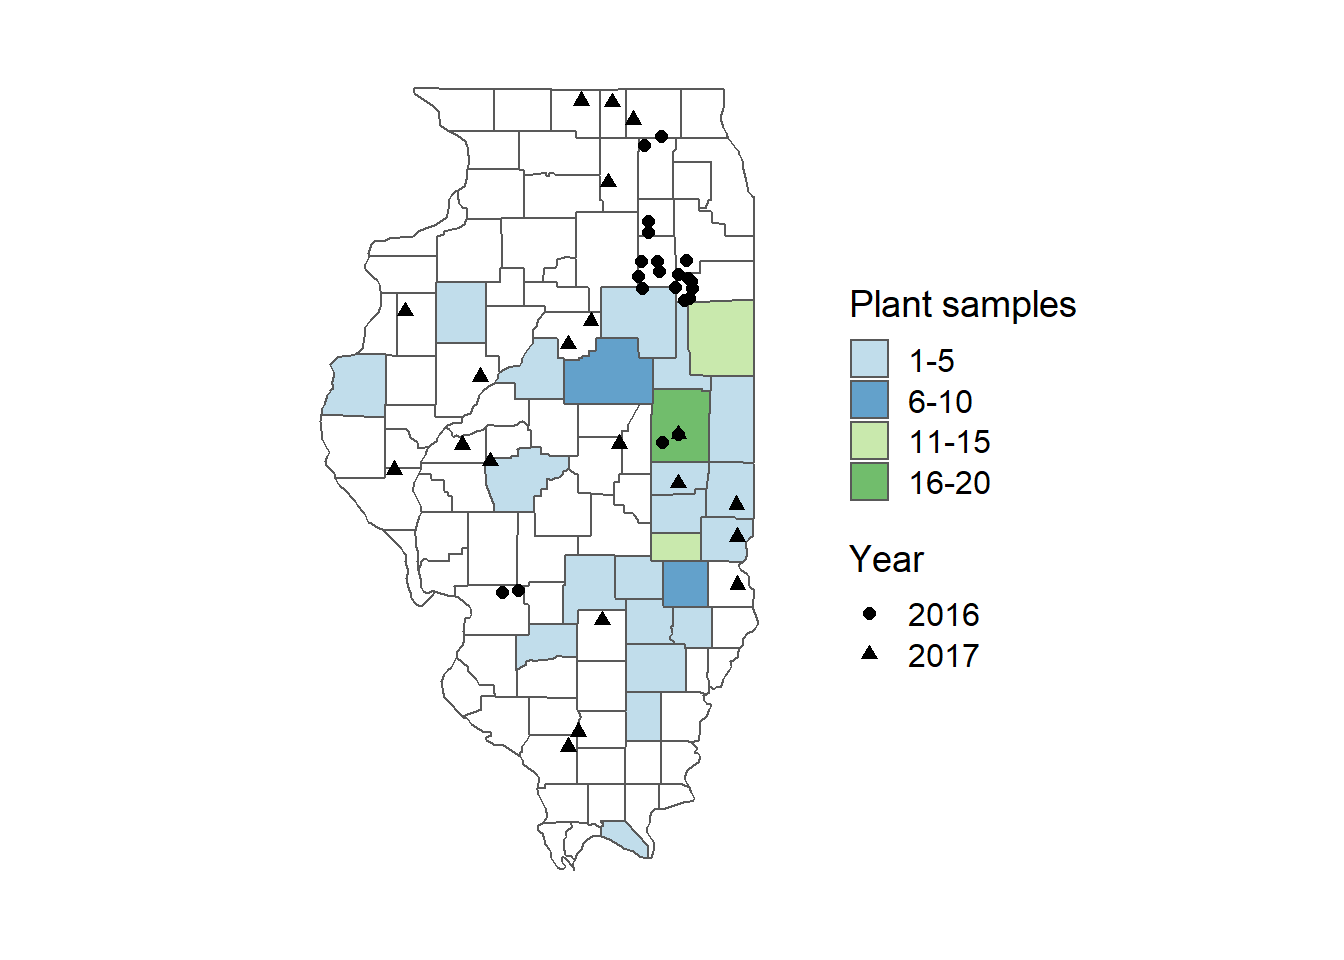
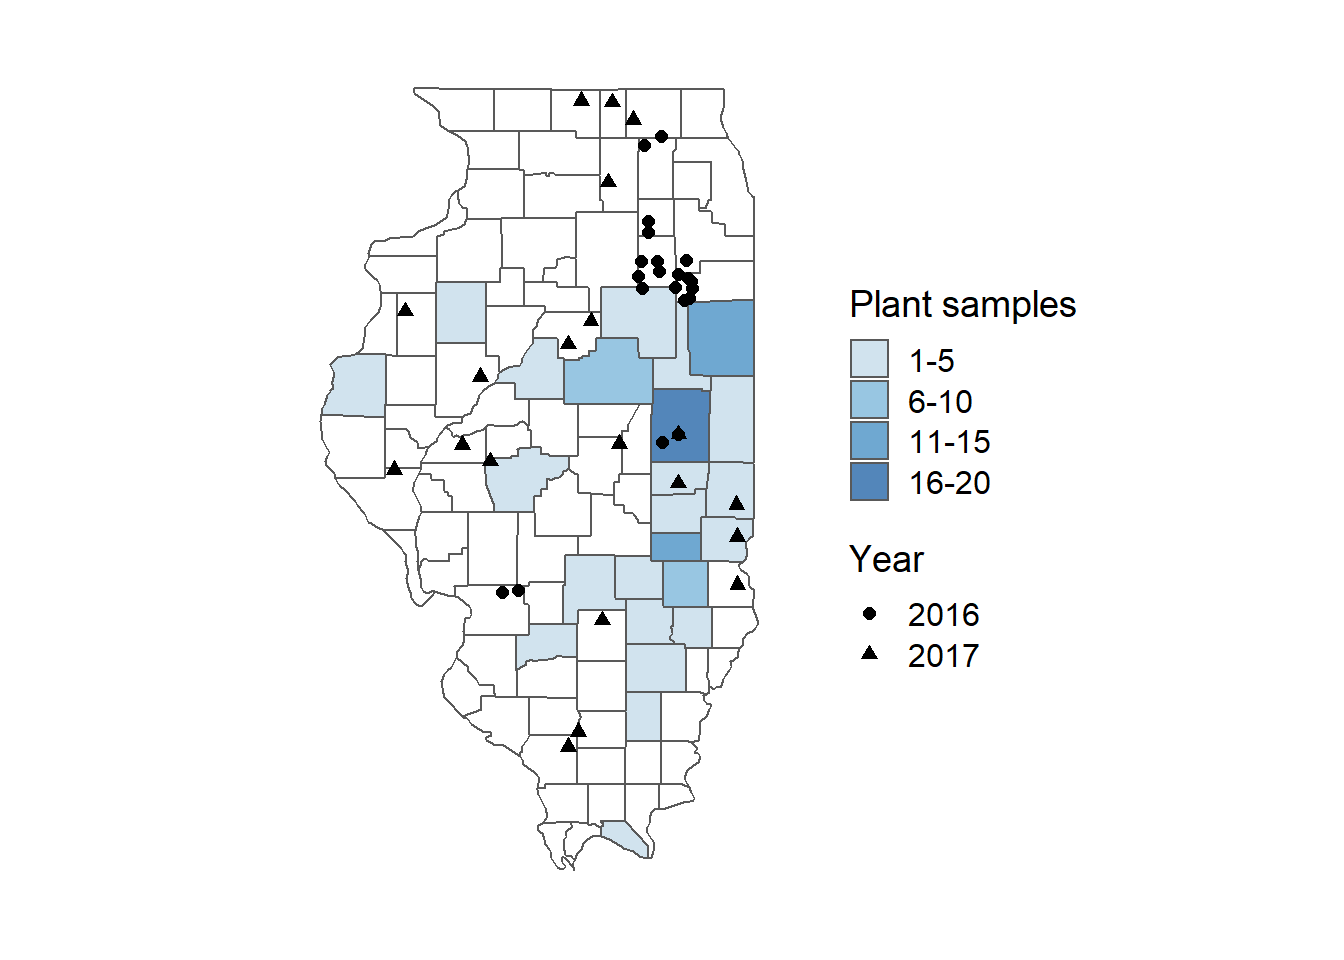
Build site.

Changed region(s): [[0.4062, 0.3125, 0.5625, 0.5], [0.625, 0.375, 0.6875, 0.5312], [0.4688, 0.5312, 0.5312, 0.6562]]

diff --git a/docs/02_analysis_phytophtora-spp-survey.html b/docs/02_analysis_phytophtora-spp-survey.html
@@ -407,7 +407,7 @@ div.tocify {
 <div class="tab-content">
 <div id="summary" class="tab-pane fade in active">
 <p>
-<strong>Last updated:</strong> 2020-07-03
+<strong>Last updated:</strong> 2020-07-08
 </p>
 <p>
 <strong>Checks:</strong> <span class="glyphicon glyphicon-ok text-success" aria-hidden="true"></span> 7 <span class="glyphicon glyphicon-exclamation-sign text-danger" aria-hidden="true"></span> 0
@@ -498,16 +498,16 @@ This reproducible <a href="http://rmarkdown.rstudio.com">R Markdown</a> analysis
 <div class="panel panel-default">
 <div class="panel-heading">
 <p class="panel-title">
-<a data-toggle="collapse" data-parent="#workflowr-checks" href="#strongRepositoryversionstrongahrefhttpsgithubcomdanielcerritosphytophthoratree7548bc087ac4c0514dfe4562b2ffc4a6a121a523targetblank7548bc0a"> <span class="glyphicon glyphicon-ok text-success" aria-hidden="true"></span> <strong>Repository version:</strong> <a href="https://github.com/danielcerritos/phytophthora/tree/7548bc087ac4c0514dfe4562b2ffc4a6a121a523" target="_blank">7548bc0</a> </a>
+<a data-toggle="collapse" data-parent="#workflowr-checks" href="#strongRepositoryversionstrongahrefhttpsgithubcomdanielcerritosphytophthoratree0de451379c62b3feec5dd8f47bd89f59125f0462targetblank0de4513a"> <span class="glyphicon glyphicon-ok text-success" aria-hidden="true"></span> <strong>Repository version:</strong> <a href="https://github.com/danielcerritos/phytophthora/tree/0de451379c62b3feec5dd8f47bd89f59125f0462" target="_blank">0de4513</a> </a>
 </p>
 </div>
[2 lines of base64/hex data omitted]
 <div class="panel-body">
 <p>
 Great! You are using Git for version control. Tracking code development and connecting the code version to the results is critical for reproducibility.
 </p>
 <p>
-The results in this page were generated with repository version <a href="https://github.com/danielcerritos/phytophthora/tree/7548bc087ac4c0514dfe4562b2ffc4a6a121a523" target="_blank">7548bc0</a>. See the <em>Past versions</em> tab to see a history of the changes made to the R Markdown and HTML files.
+The results in this page were generated with repository version <a href="https://github.com/danielcerritos/phytophthora/tree/0de451379c62b3feec5dd8f47bd89f59125f0462" target="_blank">0de4513</a>. See the <em>Past versions</em> tab to see a history of the changes made to the R Markdown and HTML files.
 </p>
 <p>
 Note that you need to be careful to ensure that all relevant files for the analysis have been committed to Git prior to generating the results (you can use <code>wflow_publish</code> or <code>wflow_git_commit</code>). workflowr only checks the R Markdown file, but you know if there are other scripts or data files that it depends on. Below is the status of the Git repository when the results were generated:
@@ -554,6 +554,108 @@ Message
 </tr>
 </thead>
 <tbody>
+<tr>
+<td>
+Rmd
+</td>
+<td>
+<a href="https://github.com/danielcerritos/phytophthora/blob/0de451379c62b3feec5dd8f47bd89f59125f0462/analysis/02_analysis_phytophtora-spp-survey.Rmd" target="_blank">0de4513</a>
+</td>
+<td>
+Daniel Guillermo Cerritos
+</td>
+<td>
+2020-07-08
+</td>
+<td>
+figures size
+</td>
+</tr>
+<tr>
+<td>
+Rmd
+</td>
+<td>
+<a href="https://github.com/danielcerritos/phytophthora/blob/9f07136cfd94e17d6d2f621b16be7c962c5ed48d/analysis/02_analysis_phytophtora-spp-survey.Rmd" target="_blank">9f07136</a>
+</td>
+<td>
+Daniel Guillermo Cerritos
+</td>
+<td>
+2020-07-07
+</td>
+<td>
+exploratory temperature data
+</td>
+</tr>
+<tr>
+<td>
+Rmd
+</td>
+<td>
+<a href="https://github.com/danielcerritos/phytophthora/blob/d2b78bb22d4dea23a4ca836e88a78605ee0b7820/analysis/02_analysis_phytophtora-spp-survey.Rmd" target="_blank">d2b78bb</a>
+</td>
+<td>
+Daniel Guillermo Cerritos
+</td>
+<td>
+2020-07-07
+</td>
+<td>
+add temperature data
+</td>
+</tr>
+<tr>
+<td>
+Rmd
+</td>
+<td>
+<a href="https://github.com/danielcerritos/phytophthora/blob/7f247ab84910a78e67c4e99bfaccf56e0e67955b/analysis/02_analysis_phytophtora-spp-survey.Rmd" target="_blank">7f247ab</a>
+</td>
+<td>
+Daniel Guillermo Cerritos
+</td>
+<td>
+2020-07-07
+</td>
+<td>
+clean agg temperature data and make graph for analysis .Rmd file
+</td>
+</tr>
+<tr>
+<td>
+Rmd
+</td>
+<td>
+<a href="https://github.com/danielcerritos/phytophthora/blob/583483062a327e2f3d9d4b5a2ac3a0de103289c4/analysis/02_analysis_phytophtora-spp-survey.Rmd" target="_blank">5834830</a>
+</td>
+<td>
+Daniel Guillermo Cerritos
+</td>
+<td>
+2020-07-04
+</td>
+<td>
+change fig 1 colors
+</td>
+</tr>
+<tr>
+<td>
+html
+</td>
+<td>
+<a href="https://rawcdn.githack.com/danielcerritos/phytophthora/c06b05d9b2d3665fd5c74d804585f65dc829c1ac/docs/02_analysis_phytophtora-spp-survey.html" target="_blank">c06b05d</a>
+</td>
+<td>
+Daniel Guillermo Cerritos
+</td>
+<td>
+2020-07-03
+</td>
+<td>
+Build site.
+</td>
+</tr>
 <tr>
 <td>
 Rmd
@@ -1591,18 +1693,19 @@ pacman::p_load(tidyverse, here, sf, maps, rnaturalearth, rnaturalearthdata,
 <h1>Import data</h1>
 <pre class="r"><code>all_data &lt;- list.files(here(&quot;output&quot;, &quot;clean_data&quot;), full.names = TRUE)
 # samples collection
-soil_samples &lt;- read_csv(all_data[8])
-plant_samples &lt;- read_csv(all_data[7])
+soil_samples &lt;- read_csv(all_data[9])
+plant_samples &lt;- read_csv(all_data[8])
 # identification of isolates
 isolates_recovered &lt;- read_csv(here(&quot;data&quot;, &quot;all-isolates-in-data-base.csv&quot;))
 # pathotype
-sojae &lt;- read_csv(all_data[6])
-sansomeana &lt;- read_csv(all_data[5])
+sojae &lt;- read_csv(all_data[7])
+sansomeana &lt;- read_csv(all_data[6])
 #aggressiveness
 dry_weigth &lt;- read_csv(all_data[1])
 area_length &lt;- read_csv(all_data[2])
+agg_temperature &lt;- read_csv(all_data[3]) 
 # fungicide sensitivity 
-fungicide &lt;- read.csv(all_data[4])</code></pre>
+fungicide &lt;- read.csv(all_data[5])</code></pre>
 </div>
 <div id="sample-collection" class="section level1">
 <h1>Sample collection</h1>
@@ -1680,12 +1783,11 @@ ggplot() +
   geom_sf(data = map_plant, aes(fill = samples_categ) , alpha = 0.7) +
   geom_sf(data = map_soil, aes(shape = year),  size = 2) +
   coord_sf(xlim = c(-92, -87), ylim = c(36.5, 43), expand = FALSE) +
-  scale_fill_manual(values = c(&quot;#a6cee3&quot;, &quot;#1f78b4&quot;, &quot;#b2df8a&quot;, &quot;#33a02c&quot;), 
+  scale_fill_manual(values = c(&quot;#bdd7e7&quot;, &quot;#6baed6&quot;, &quot;#3182bd&quot;, &quot;#08519c&quot;), 
                     name = &quot;Plant samples&quot;) +
   scale_shape_discrete(name = &quot;Year&quot;) +
   theme_map()</code></pre>
 <p><img src="figure/02_analysis_phytophtora-spp-survey.Rmd/sample%20map-1.png" width="672" style="display: block; margin: auto;" /></p>
-<pre class="r"><code>#   scale_fill_manual(values = c(&quot;#a6cee3&quot;, &quot;#1f78b4&quot;, &quot;#b2df8a&quot;, &quot;#33a02c&quot;), </code></pre>
 </div>
 </div>
 <div id="identification-of-isolates" class="section level1">
@@ -1855,9 +1957,9 @@ sojae_control &lt;- sojae %&gt;%
   filter(differential == &quot;Williams&quot;) %&gt;% 
   group_by(isolate_number, isolate_id, isolate_name, county, differential, gene) %&gt;% 
   summarise(dead = sum(dead), 
-            total = sum(total))
-
-sojae &lt;- sojae %&gt;% 
+            total = sum(total))</code></pre>
+<pre><code>`summarise()` regrouping output by &#39;isolate_number&#39;, &#39;isolate_id&#39;, &#39;isolate_name&#39;, &#39;county&#39;, &#39;differential&#39; (override with `.groups` argument)</code></pre>
+<pre class="r"><code>sojae &lt;- sojae %&gt;% 
   filter(!differential == &quot;Williams&quot;)
 
 sojae &lt;- bind_rows(sojae_control, sojae)
@@ -2042,7 +2144,7 @@ sansomeana_rps %&gt;%
        y = &quot;Percent pathogenic&quot;) +
   scale_y_continuous(
     expand = expansion(mult = c(0, 0.05))) </code></pre>
-<p><img src="figure/02_analysis_phytophtora-spp-survey.Rmd/sansomena%20effective%20genes-1.png" width="672" style="display: block; margin: auto;" /></p>
+<p><img src="figure/02_analysis_phytophtora-spp-survey.Rmd/sansomena%20effective%20genes-1.png" width="432" style="display: block; margin: auto;" /></p>
 <pre class="r"><code># combine pathtoyping results
 isolates_complexity &lt;- complexities$indvidual_complexities %&gt;% 
   rename(isolate_number = sample, complexity = N_samp)
@@ -2067,9 +2169,9 @@ sojae_pathotype &lt;- left_join(sojae_all, add_isolate_id, by = &quot;isolate_nu
 area_length &lt;- area_length %&gt;% 
   group_by(experiment, pot) %&gt;% 
   summarise(length_in = mean(length_in), 
-            area_in.2 = mean(area_in.2))
-
-aggressiveness &lt;- left_join(dry_weigth, area_length, 
+            area_in.2 = mean(area_in.2))</code></pre>
+<pre><code>`summarise()` regrouping output by &#39;experiment&#39; (override with `.groups` argument)</code></pre>
+<pre class="r"><code>aggressiveness &lt;- left_join(dry_weigth, area_length, 
                             by = c(&quot;experiment&quot;, &quot;pot&quot;)) 
 
 # results  are by pot, divide by germination to get mean by seedling
@@ -2082,6 +2184,30 @@ aggressiveness &lt;- aggressiveness %&gt;%
 # write_csv(aggressiveness, here(&quot;output&quot;, &quot;transform_data&quot;, &quot;02_aggressiveness_transform.csv&quot;))</code></pre>
 <div id="exploratory-plots" class="section level2">
 <h2>Exploratory plots</h2>
+<pre class="r"><code>agg_temperature %&gt;% 
+  group_by(experiment) %&gt;% 
+  summarise(min = min(room_temperature), 
+            max = max(room_temperature), 
+            mean = mean(room_temperature))</code></pre>
+<pre><code># A tibble: 3 x 4
+  experiment   min   max  mean
+       &lt;dbl&gt; &lt;dbl&gt; &lt;dbl&gt; &lt;dbl&gt;
+1          1  71.4  83.5  77.6
+2          2  73.1  85.3  76.6
+3          3  69.6  76.2  72.8</code></pre>
+<pre class="r"><code>agg_temperature$time &lt;- as.character(agg_temperature$time)
+# filter to the hours they have in common 
+agg_temperature_filtered &lt;- agg_temperature %&gt;% 
+  filter(time %in% c(&quot;00:15:00&quot;, &quot;08:15:00&quot;, &quot;16:15:00&quot;))
+
+agg_temperature_filtered %&gt;% 
+  ggplot(aes(x = date, y = room_temperature, color = as.factor(experiment))) +
+  geom_line(group = 1)  +
+  facet_grid(~ as.factor(experiment), scales = &quot;free_x&quot;) +
+  theme_minimal() +
+  theme(axis.text.x = element_text(angle = 45, hjust = 1), 
+        legend.position = &quot;none&quot;) </code></pre>
+<p><img src="figure/02_analysis_phytophtora-spp-survey.Rmd/temperature%20agg-1.png" width="672" style="display: block; margin: auto;" /></p>
 <pre class="r"><code>aggressiveness$experiment &lt;- as.factor(aggressiveness$experiment)
 aggressiveness$isolate &lt;- as.factor(aggressiveness$isolate)
 aggressiveness$species &lt;- as.factor(aggressiveness$species)
@@ -2549,9 +2675,7 @@ Intervals are back-transformed from the log scale
 P value adjustment: tukey method for comparing a family of 33 estimates 
 Tests are performed on the log scale 
 significance level used: alpha = 0.05 </code></pre>
-</div>
-<div id="figure-4" class="section level2">
-<h2>Figure 4</h2>
+<p>## Figure 4</p>
 <pre class="r"><code># combine the two controls for plotting
 aggressiveness_plots &lt;- aggressiveness
 
@@ -2687,7 +2811,6 @@ dry_root    0.0939              0.0001    0.0000    0.0000
 dry_shoot   0.0362     0.0001             0.0000    0.0000     
 root_area   0.0316     0.0000   0.0000              0.0000     
 root_length 0.0475     0.0000   0.0000    0.0000               </code></pre>
-<p>Make some plots for the temperature data</p>
 </div>
 </div>
 <div id="fungicide-sensitivity" class="section level1">
@@ -2712,9 +2835,9 @@ control_fungicide &lt;- clean_fungicide %&gt;%
   filter(dose == 0, 
          !is.na(length.mm)) %&gt;% 
   group_by(fungicide, experiment, isolate) %&gt;% 
-  summarise(control.mean = mean(length.mm)) 
-
-clean_fungicide &lt;- left_join(clean_fungicide, control_fungicide, by = c(&quot;fungicide&quot;,
+  summarise(control.mean = mean(length.mm)) </code></pre>
+<pre><code>`summarise()` regrouping output by &#39;fungicide&#39;, &#39;experiment&#39; (override with `.groups` argument)</code></pre>
+<pre class="r"><code>clean_fungicide &lt;- left_join(clean_fungicide, control_fungicide, by = c(&quot;fungicide&quot;,
                                                                         &quot;experiment&quot;, 
                                                                         &quot;isolate&quot;))
 # relative growth calculation
@@ -2731,18 +2854,18 @@ no_EC50 &lt;- clean_fungicide %&gt;%
   filter(fungicide %in% c(&quot;Mefenoxam&quot;,
                           &quot;Metalaxyl&quot;, 
                           &quot;Ethaboxam&quot;) &amp; dose == 1 &amp; rel.growth &gt; 50, 
-         fungicide == &quot;Azoxystrobin&quot; &amp; dose == 10 &amp; rel.growth &gt; 50)
-
-# check if there are isolates with hormetic effect
+         fungicide == &quot;Azoxystrobin&quot; &amp; dose == 10 &amp; rel.growth &gt; 50)</code></pre>
+<pre><code>`summarise()` regrouping output by &#39;fungicide&#39;, &#39;experiment&#39;, &#39;isolate&#39; (override with `.groups` argument)</code></pre>
+<pre class="r"><code># check if there are isolates with hormetic effect
 # &gt;100% rel growth at lower dose
 hormetic_isolates &lt;- clean_fungicide %&gt;% 
   group_by(fungicide, experiment, isolate, dose) %&gt;% 
   summarise(rel.growth = mean(rel.growth)) %&gt;% 
   filter(rel.growth &gt; 100, 
          !dose == 0) %&gt;% 
-  dplyr::select(fungicide, experiment, isolate)
-
-hormetic_isolates %&gt;% 
+  dplyr::select(fungicide, experiment, isolate)</code></pre>
+<pre><code>`summarise()` regrouping output by &#39;fungicide&#39;, &#39;experiment&#39;, &#39;isolate&#39; (override with `.groups` argument)</code></pre>
+<pre class="r"><code>hormetic_isolates %&gt;% 
   group_by(fungicide, experiment, isolate) %&gt;% 
   n_distinct()</code></pre>
 <pre><code>[1] 37</code></pre>
@@ -4113,7 +4236,7 @@ other attached packages:
 [16] hagis_3.0.1             cowplot_1.0.0           rnaturalearthdata_0.1.0
 [19] rnaturalearth_0.1.0     maps_3.3.0              sf_0.9-3               
 [22] here_0.1                forcats_0.5.0           stringr_1.4.0          
-[25] dplyr_0.8.5             purrr_0.3.4             readr_1.3.1            
+[25] dplyr_1.0.0             purrr_0.3.4             readr_1.3.1            
 [28] tidyr_1.1.0             tibble_3.0.1            ggplot2_3.3.0          
 [31] tidyverse_1.3.0         workflowr_1.6.2        
 
